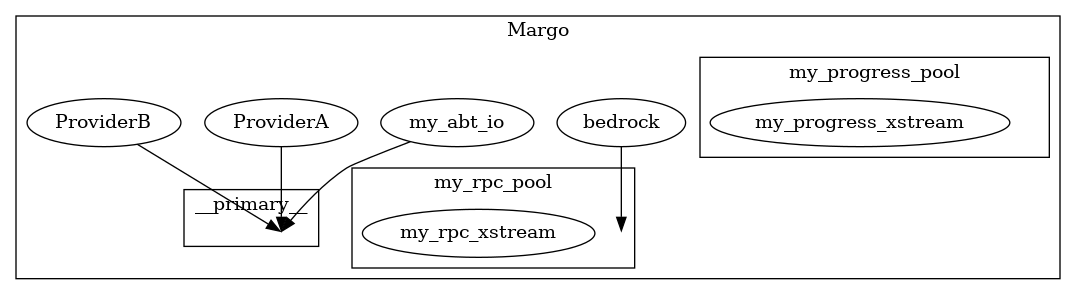
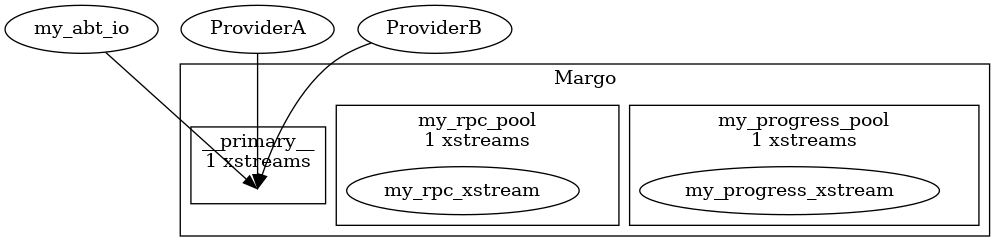
make "margo" its own subgroup

diff --git a/src/json-viz.cc b/src/json-viz.cc
@@ -115,24 +115,23 @@ PoolMap::PoolMap(const json &j)
 void graph_header(std::stringstream & in)
 {
     in << "digraph pools {" << std::endl
-        << "   compound=true;" << std::endl
-        << "   subgraph cluster_margo {" << std::endl
-        << "   label=\"Margo\";" << std::endl;
+        << "   compound=true;" << std::endl;
 }
 
 
 void graph_footer(std::stringstream &in)
 {
-    in << "}" << std::endl; // margo subgraph
     in << "}" << std::endl; // overall digraph
 }
 
 void graph_pools(std::stringstream &in, PoolMap &pools)
 {
+    in << "   subgraph cluster_margo {" << std::endl
+        << "   label=\"Margo\";" << std::endl;
     for (auto list = pools.cbegin(); list != pools.cend(); list++) {
         in << "       subgraph cluster_pool" << list-pools.cbegin() << "{" << std::endl;
         in << "           label = \"" << (*list)[0] <<
-                          "\n" << (*list).size()-1 <<" xstreams\";" << std::endl;
+                          "\\n" << (*list).size()-1 <<" xstreams\";" << std::endl;
         /* a hidden point for this pool so we can connect providers to it later if need be */
         in << "           " << (*list)[0] << " [shape=point style=invis] " << std::endl;
         /* if the list of associated xstreams is really large, the image is unusable.  */
@@ -150,6 +149,7 @@ void graph_pools(std::stringstream &in, PoolMap &pools)
             in << "       }" << std::endl;
         }
     }
+    in << "    }" << std::endl;
 }
 
 void graph_instance(std::stringstream &in, const std::string &name, const json &j, PoolMap &pools)
